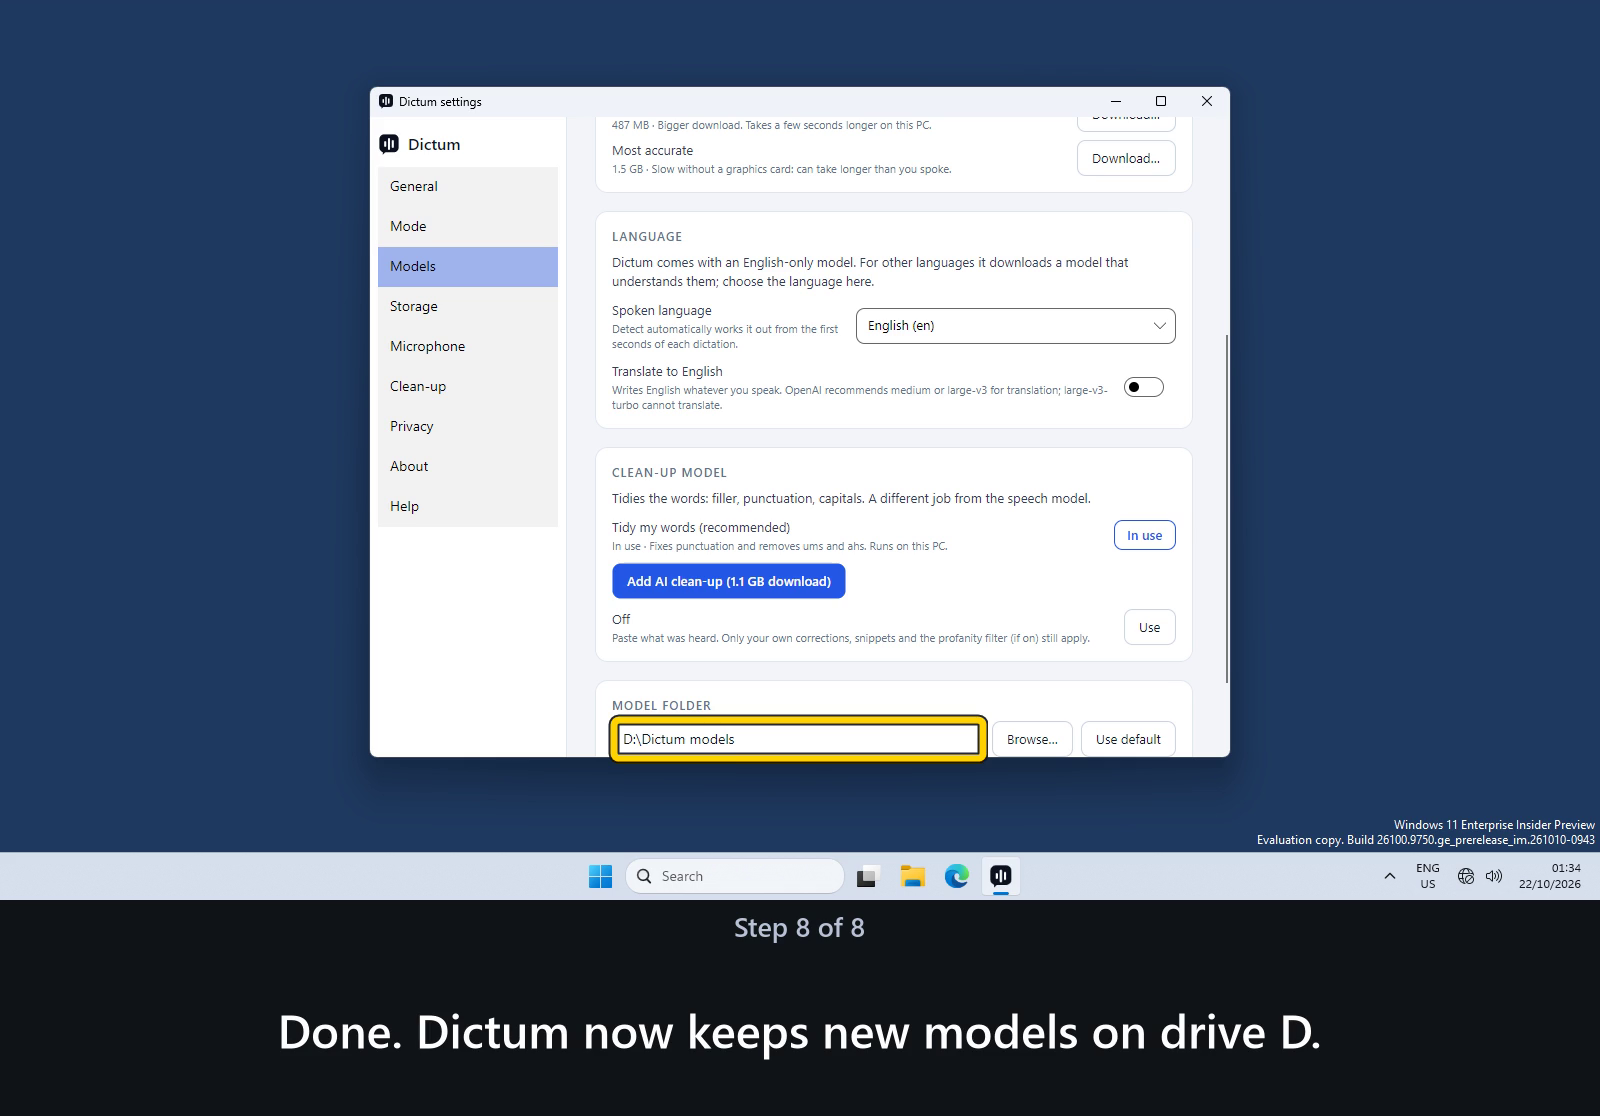
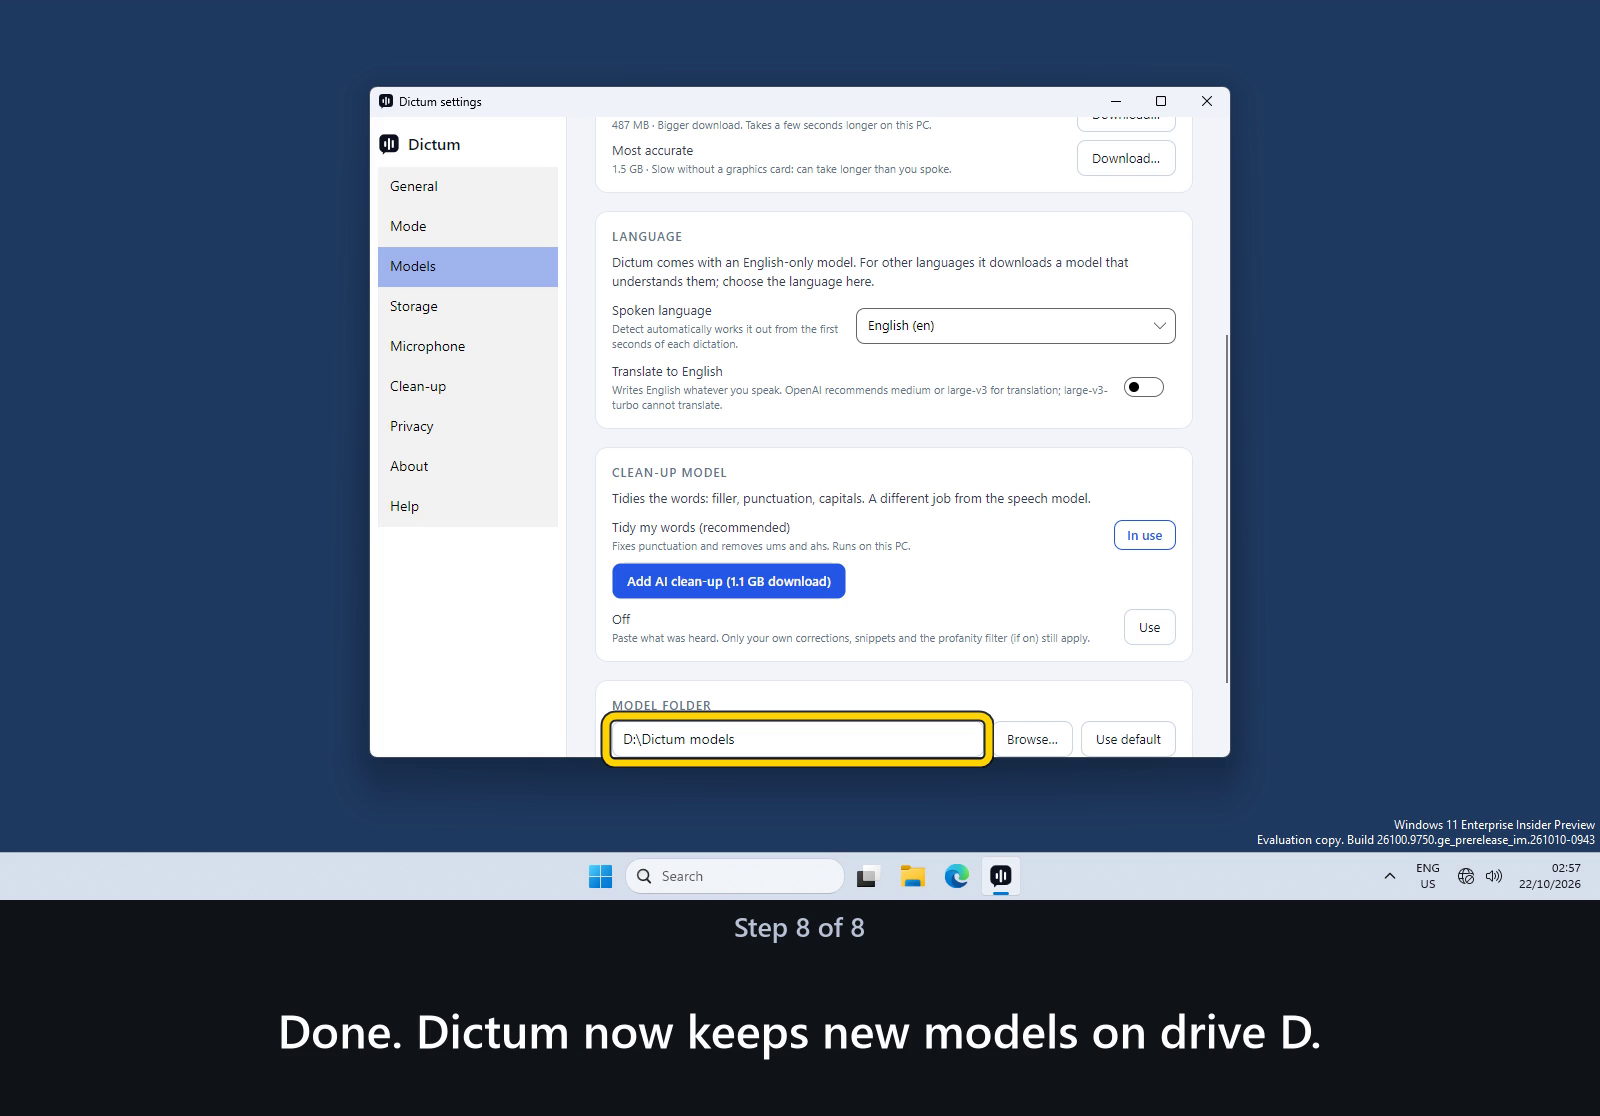
Demos: re-record on main d47e7f9 (polish round 2)
first-run, help, change-model, test-setup and model-folder recorded again
from a Setup built at d47e7f9. install is unchanged: its screens (Setup
and the welcome's first step) did not change in round 2.
- test-setup: Record is now off with no microphone, so step 5 points at
  it ("With a microphone, you would click Record...") and step 6 says
  Record is off
- model-folder: the folder box is an Edit named "Model folder" again
DEMOS.md: build, table and captions brought up to date. Captions PROPOSED.

Changed region(s): [[0.375, 0.6093, 0.625, 0.7007], [0.4062, 0.4875, 0.5625, 0.5179]]

diff --git a/docs/DEMOS.md b/docs/DEMOS.md
@@ -2,7 +2,7 @@
 
 Short captioned walkthrough videos of Dictum, recorded unattended on a clean Windows (Windows Sandbox) with no
 narration, for people who have never used it. Every caption names one thing to do. Pipeline written 21/10/2026 on
-main at 6dfede8; the demos were re-recorded on 22/10/2026 against the 1.2 build with its polish (PR #38 at 4abba54), below.
+main at 6dfede8; the demos were re-recorded on 22/10/2026 against the 1.2 build on main at d47e7f9 (both polish rounds), below.
 
 All caption copy below is **PROPOSED**, for the product owner to approve.
 
@@ -221,20 +221,21 @@ For 1.2, a new or renamed control needs only its data file changed: the scripts 
   that build's.
 - **Calibration keeps its name.** The 1.2 build still calls it "Calibrate my voice" (the tray panel, Settings > Models,
   the welcome's Try it step and Help all use that name), so the demo does too; its file stays `test-setup.json`. With
-  no microphone it shows "No microphone found. Plug one in, ..." under Record (the same sentence as the welcome window
+  no microphone, Record is off and "No microphone found. Plug one in, ..." stands under it (the same sentence as the welcome window
   and the tray panel).
 - **The help demo does not press Send feedback**: it opens the user's own mail program, and the sandbox has none. The
   demo shows the button and says what it does.
-- **The Setup's version is 1.1.2.** The 1.2 build (PR #38 at 4abba54) still carries version 1.1.2, so the Setup file,
+- **The Setup's version is 1.1.2.** The 1.2 build (main at d47e7f9) still carries version 1.1.2, so the Setup file,
   the SmartScreen dialog and Setup's title say 1.1.2 in these recordings.
 
 ## What each demo shows (1.2 build, 21/10/2026)
 
-Recorded on 22/10/2026 from PR #38's head 4abba54 (the 1.2 build of PR #23 plus its polish: the welcome window at 720 x 500, key
-names such as "Right Ctrl", the no-microphone state, the Help index, "In use" as a tag). CI on a branch
+Recorded on 22/10/2026 from main at d47e7f9 (the 1.2 build of PR #23 and both polish rounds, PRs #38 and #39). install was recorded
+at 4abba54 (PR #38): its screens (Setup and the welcome's first step) did not change in #39. CI on a branch
 publishes only the zip (`.github/workflows/ci.yml` builds the Setup on tags), so the Setup exe was built locally from
 that commit with `scripts\build-installer.ps1` (Inno Setup 7.1.0): `Dictum-Setup-1.1.2.exe`, SHA-256
[3 lines of base64/hex data omitted]
 `<name>.gif` and `<name>-poster.png` are committed; `<name>.mp4` is not, because the private-material guard
 (`.githooks/private-guard.sh`, and `.gitignore`) refuses every `.mp4` in the repository, with no exception. Where the
 videos are hosted is the product owner's decision.
@@ -244,7 +245,7 @@ videos are hosted is the product owner's decision.
 | 1. Install | `install.json` | Downloads folder, double-click Setup, SmartScreen (offline variant), Next, Install, Launch Dictum ticked, Finish, the "Welcome to Dictum" window |
 | 2. First run | `first-run.json` | Start, type Dictum, Enter, the six-step welcome (Welcome, Model files, Speech model, Your hotkey, Microphone with the no-microphone message, Try it while the model gets ready), Finish, the tray icon, the panel showing Ready and the no-microphone sentence |
 | 3. Change the speech model | `change-model.json` | Settings > Models in the Simple view: Standard in use, Use next to More accurate (small.en, copied in from the host's model folder, read-only), In use, then Advanced showing every model by name |
-| 4. Calibrate my voice | `test-setup.json` | Tray icon, Calibrate my voice, the first sentence, Record, and the no-microphone message under Record |
+| 4. Calibrate my voice | `test-setup.json` | Tray icon, Calibrate my voice, the first sentence, Record, and Record switched off, with the no-microphone message under it |
 | 5. Models on another drive | `model-folder.json` | Settings, Models, Browse, type D:\Dictum models, Select Folder, the new folder shown |
 | 6. Find help | `help.json` | Settings > Help: the "Questions on this page" list, two questions opened from it and their answers, Send feedback (shown, not pressed) |
 | Dictation (stills) | `dictation-stills.json` | The pill: Recording, Transcribing, Pasted 12 words |
@@ -299,8 +300,8 @@ window, and first-run records it.
    2. Click the Dictum icon.
    3. Click Calibrate my voice.
    4. Dictum shows a sentence to read aloud.
-   5. Click Record and read the sentence aloud.
-   6. This test PC has no microphone, so Dictum says so under Record.
+   5. With a microphone, you would click Record and read the sentence aloud.
+   6. This test PC has none, so Record is off and Dictum says why.
 5. **Keep the models on another drive** (`model-folder.json`)
    1. Click the little up-arrow near the clock, at the bottom right of the screen. *(skipped when the icon is already on the taskbar)*
    2. Click the Dictum icon.
